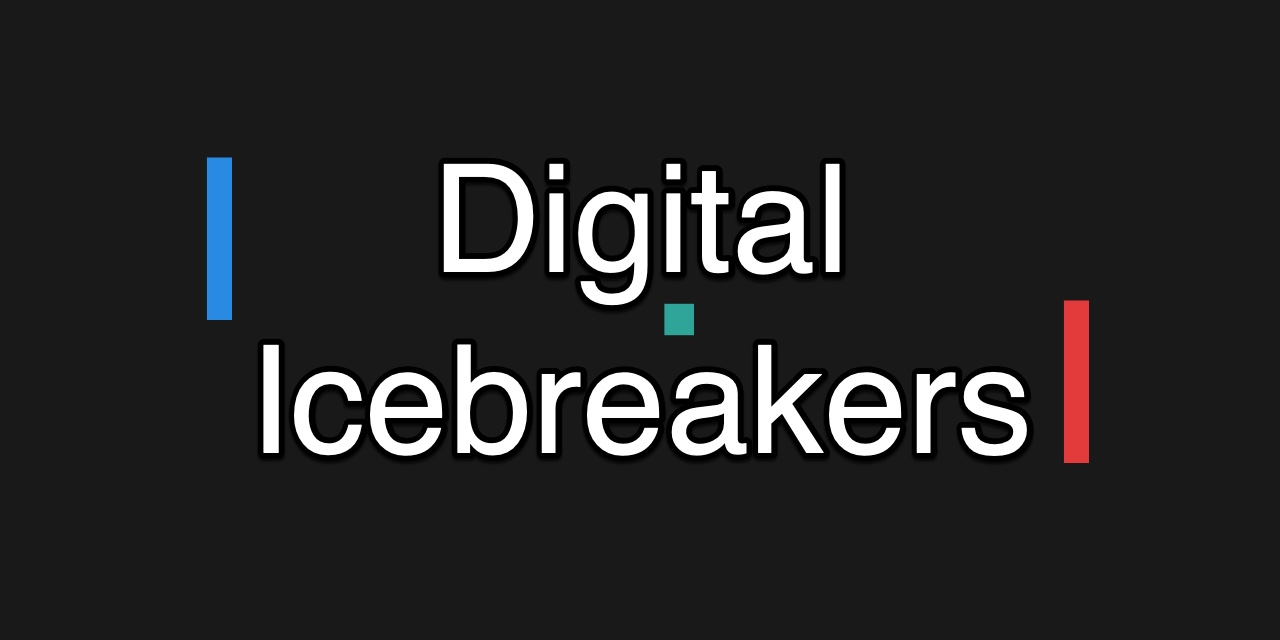
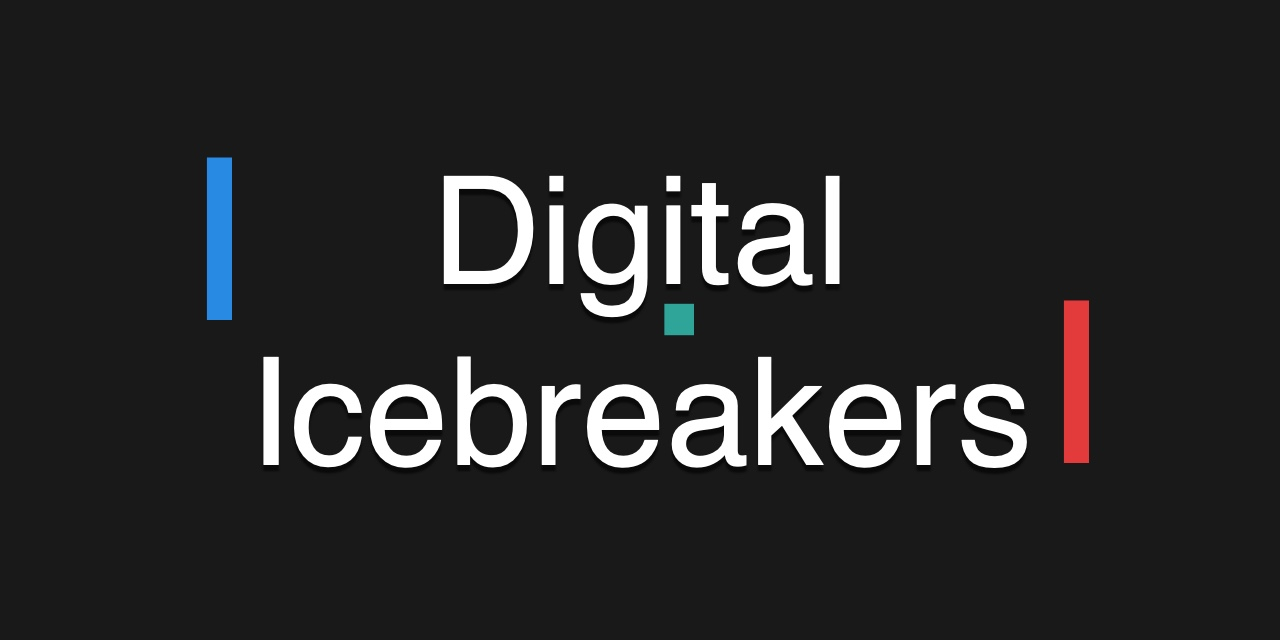
readme

diff --git a/DigitalIcebreakers/ClientApp/src/components/Lobby.tsx b/DigitalIcebreakers/ClientApp/src/components/Lobby.tsx
@@ -43,10 +43,19 @@ const Lobby: React.FC<LobbyProps> = (props) => {
 }
 
 const NoLobby = () => {
+    const imageStyle: React.CSSProperties = {
+        maxHeight: '320px',
+    };
+    const imageContainer: React.CSSProperties = {
+        backgroundColor: '#191919',
+    };
     return (
         <>
             <GithubFork />
             <div>
+                <div style={imageContainer} className='front-image-container'>
+                    <img style={imageStyle} src='img/digital-icebreakers.jpg' className='img-responsive center-block' />
+                </div>
                 <h1>Digital Icebreakers</h1>
                 <p>feature requests, suggestions, bugs & feedback to <a href="mailto:stafford@atqu.in">stafford@atqu.in</a></p>
                 <Changelog />

diff --git a/DigitalIcebreakers/ClientApp/src/index.css b/DigitalIcebreakers/ClientApp/src/index.css
@@ -13,8 +13,10 @@ body {
     .navPad {
         padding-top: 50px;
     }
-    .githubFork {
-        top: -20px;
+}
+@media (min-width: 768px) {
+    .front-image-container {
+        margin-left: -20px;
     }
 }
 

diff --git a/DigitalIcebreakers/README.md b/DigitalIcebreakers/README.md
@@ -1,5 +1,7 @@
 # Digital Icebreakers
 
+![Digital Icebreakers](https://raw.githubusercontent.com/staff0rd/DigitalIcebreakers/master/DigitalIcebreakers/ClientApp/public/img/digital-icebreakers.jpg)
+
 Digital Icebreakers is a platform for presenters and audiences to collaborate, play, and experiment together.
 
 ## How it works
